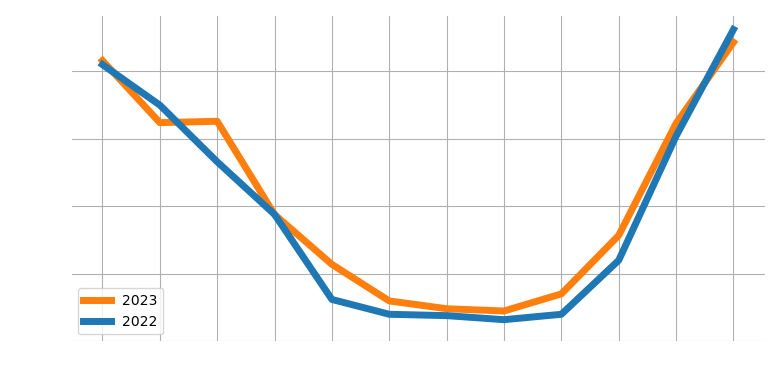
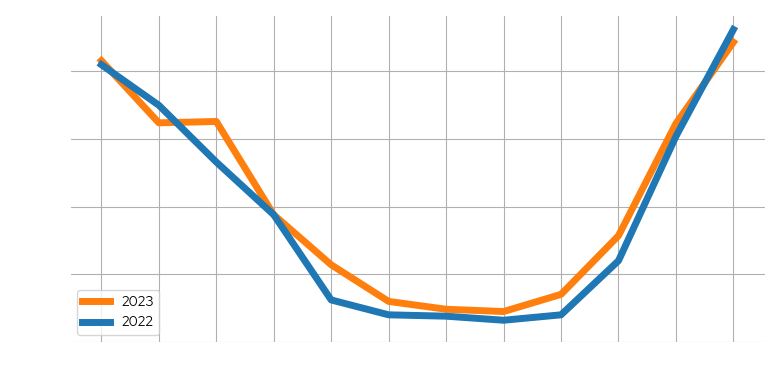
Tm april 2023

diff --git a/energieverbruik.py b/energieverbruik.py
@@ -15,7 +15,7 @@ import matplotlib.pyplot as plotWat
 from enum import IntEnum
 from matplotlib import rcParams
 from multiprocessing import Process
-
+from matplotlib import *
 
 class Month(IntEnum):
     jan = 0
@@ -41,11 +41,11 @@ VORIG_JAAR = HUIDIG_JAAR - 1
 # INVOEREN GEGEVENS HUIDIGE JAAR
 #
 MAAND = Month.apr
-DAG_VAN_MAAND = 23
+DAG_VAN_MAAND = 30
 DAGEN_IN_MAAND = 30
-VERBRUIK_GAS = 72
-VERBRUIK_ELEKTRICITEIT = 92
-VERBRUIK_WATER = 4
+VERBRUIK_GAS = 94
+VERBRUIK_ELEKTRICITEIT = 122
+VERBRUIK_WATER = 6
 PRIJS_GAS = 1.39006
 PRIJS_ELEKTRICITEIT = 0.39802
 PRIJS_WATER = 1.021
@@ -306,7 +306,8 @@ maanden = ["jan", "feb", "mrt", "apr", "mei", "jun", "jul", "aug", "sep",
            "okt", "nov", "dec"]
 rcParams['axes.edgecolor'] = 'White'
 rcParams['figure.figsize'] = [7.8, 3.8]
-
+rcParams['font.family'] = ['sans-serif']
+rcParams['font.sans-serif'] = ['Red Hat Text VF']
 
 def GrafiekGas():
     # Grafiek gasverbruik
